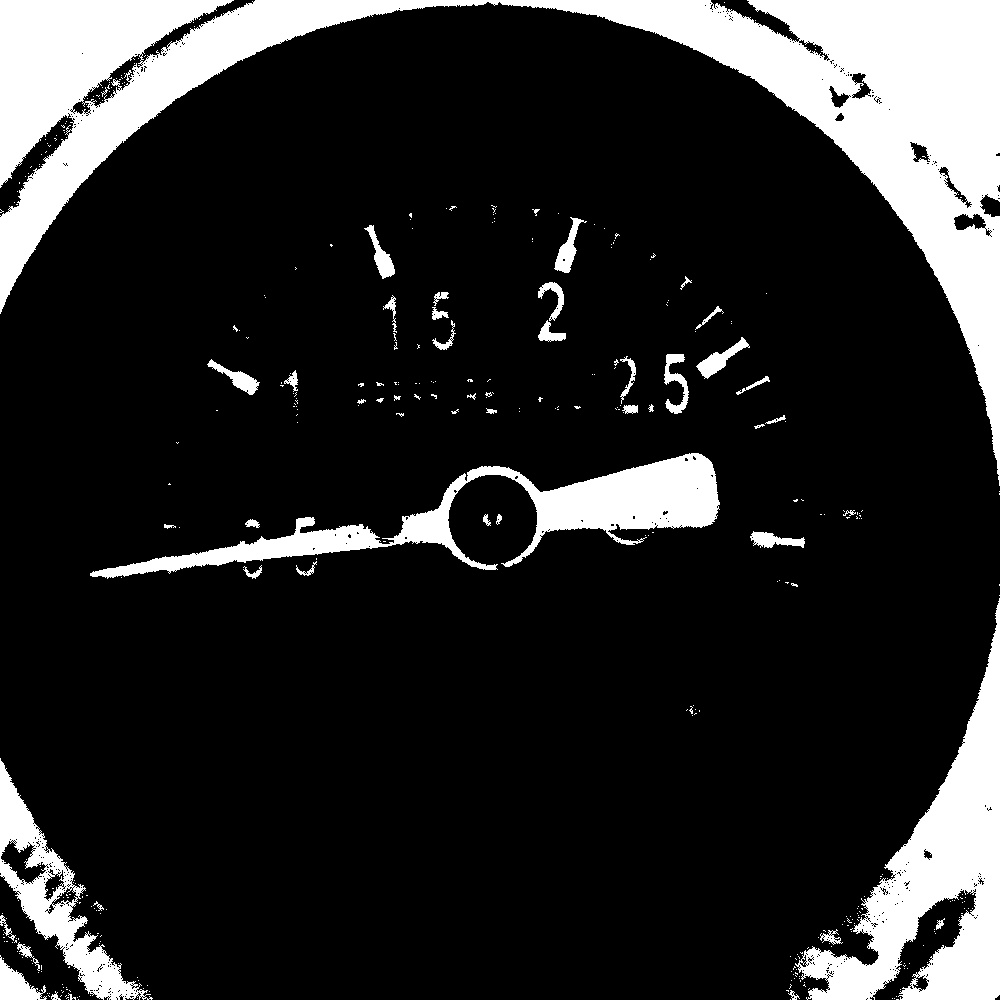
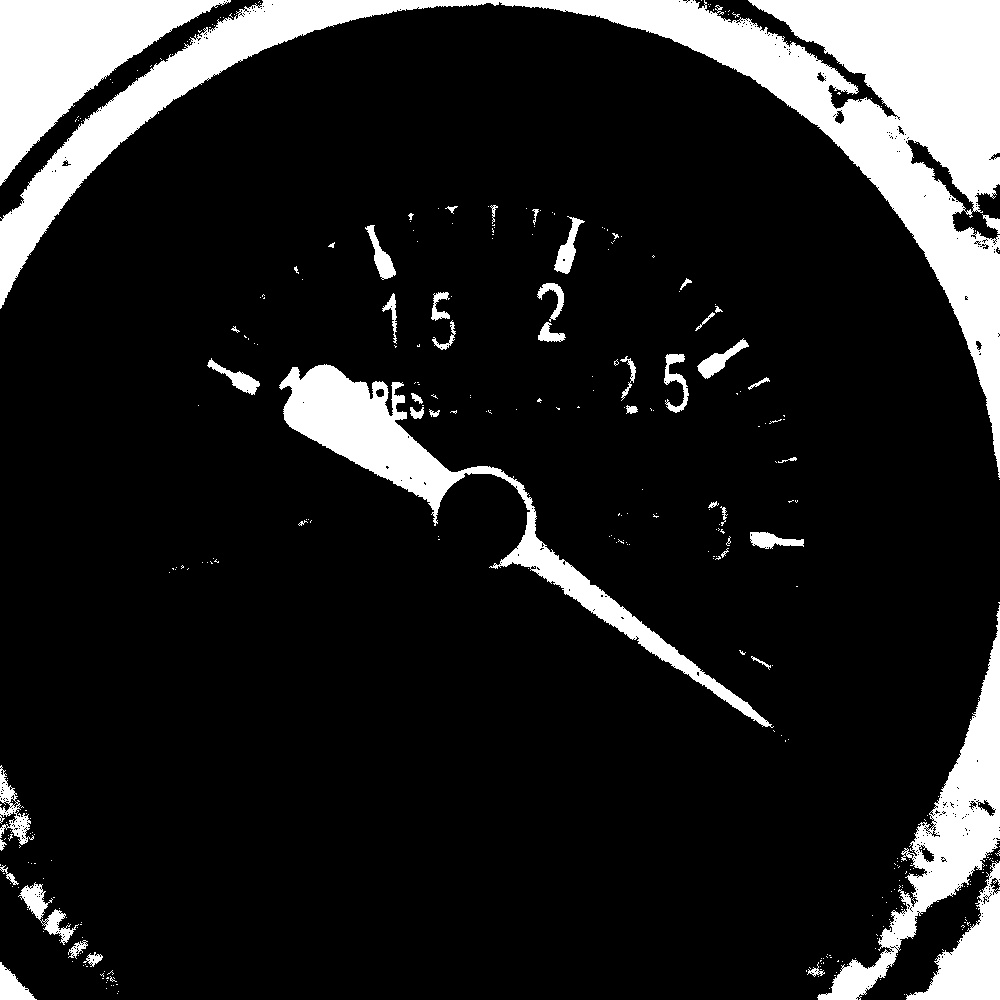
added test images

diff --git a/gm_app.py b/gm_app.py
@@ -11,6 +11,7 @@ import hough_transforms
 import geometry
 import process_image
 import housekeeping
+import datetime
 
 try:
     from matplotlib import pyplot as plt
@@ -176,15 +177,15 @@ def main():
     plt.plot(hist0)
     plt.xlim([0, 256])
     plt.ylim([0, 50000])
-    plt.show()
+    # plt.show()
     host.write_to_file('w', "Pressure: " + pressure_str + " MPa", "Temperature: " + str(host.read_temp()))
     host.write_to_file('a', "circle_x:" + str(circle_x), "circle_y:" + str(circle_y), "radius:" + str(radius))
     # pass in tuples ("filename.ext", img_to_write)
     # host.write_image(("prep.jpg", prep), ("canvas.jpg", canvas), ("orig_im.jpg", im))
     prep = cv2.cvtColor(prep, cv2.COLOR_GRAY2BGR)
     canvas = np.concatenate((prep, canvas), axis=1)
-    # host.show_image(canvas)
-    # cv2.waitKey(0)
+    cv2.imshow('gauge', canvas)
+    cv2.waitKey(0)
 
     return True
 

diff --git a/housekeeping.py b/housekeeping.py
@@ -81,8 +81,8 @@ class OS:
 
     def show_image(self, img):
         if self.running_on_pi:
-            #if os.path.exists("./canvas.jpg"):
-                #subprocess.call("sudo fbi -T 1 canvas.jpg", shell=True)
+            if os.path.exists("./canvas.jpg"):
+                subprocess.call("sudo fbi -T 1 canvas.jpg", shell=True)
             pass
         else:
             pass

diff --git a/defines.py b/defines.py
@@ -19,4 +19,4 @@ HEIGHT = 1000
 MAX_DISTANCE = 200
 CIRCLE_SCALE_FACTOR = 1.15
 
-IMG_PATH = "./img_samples/005.jpg"
+IMG_PATH = "./img_samples/035.jpg"
